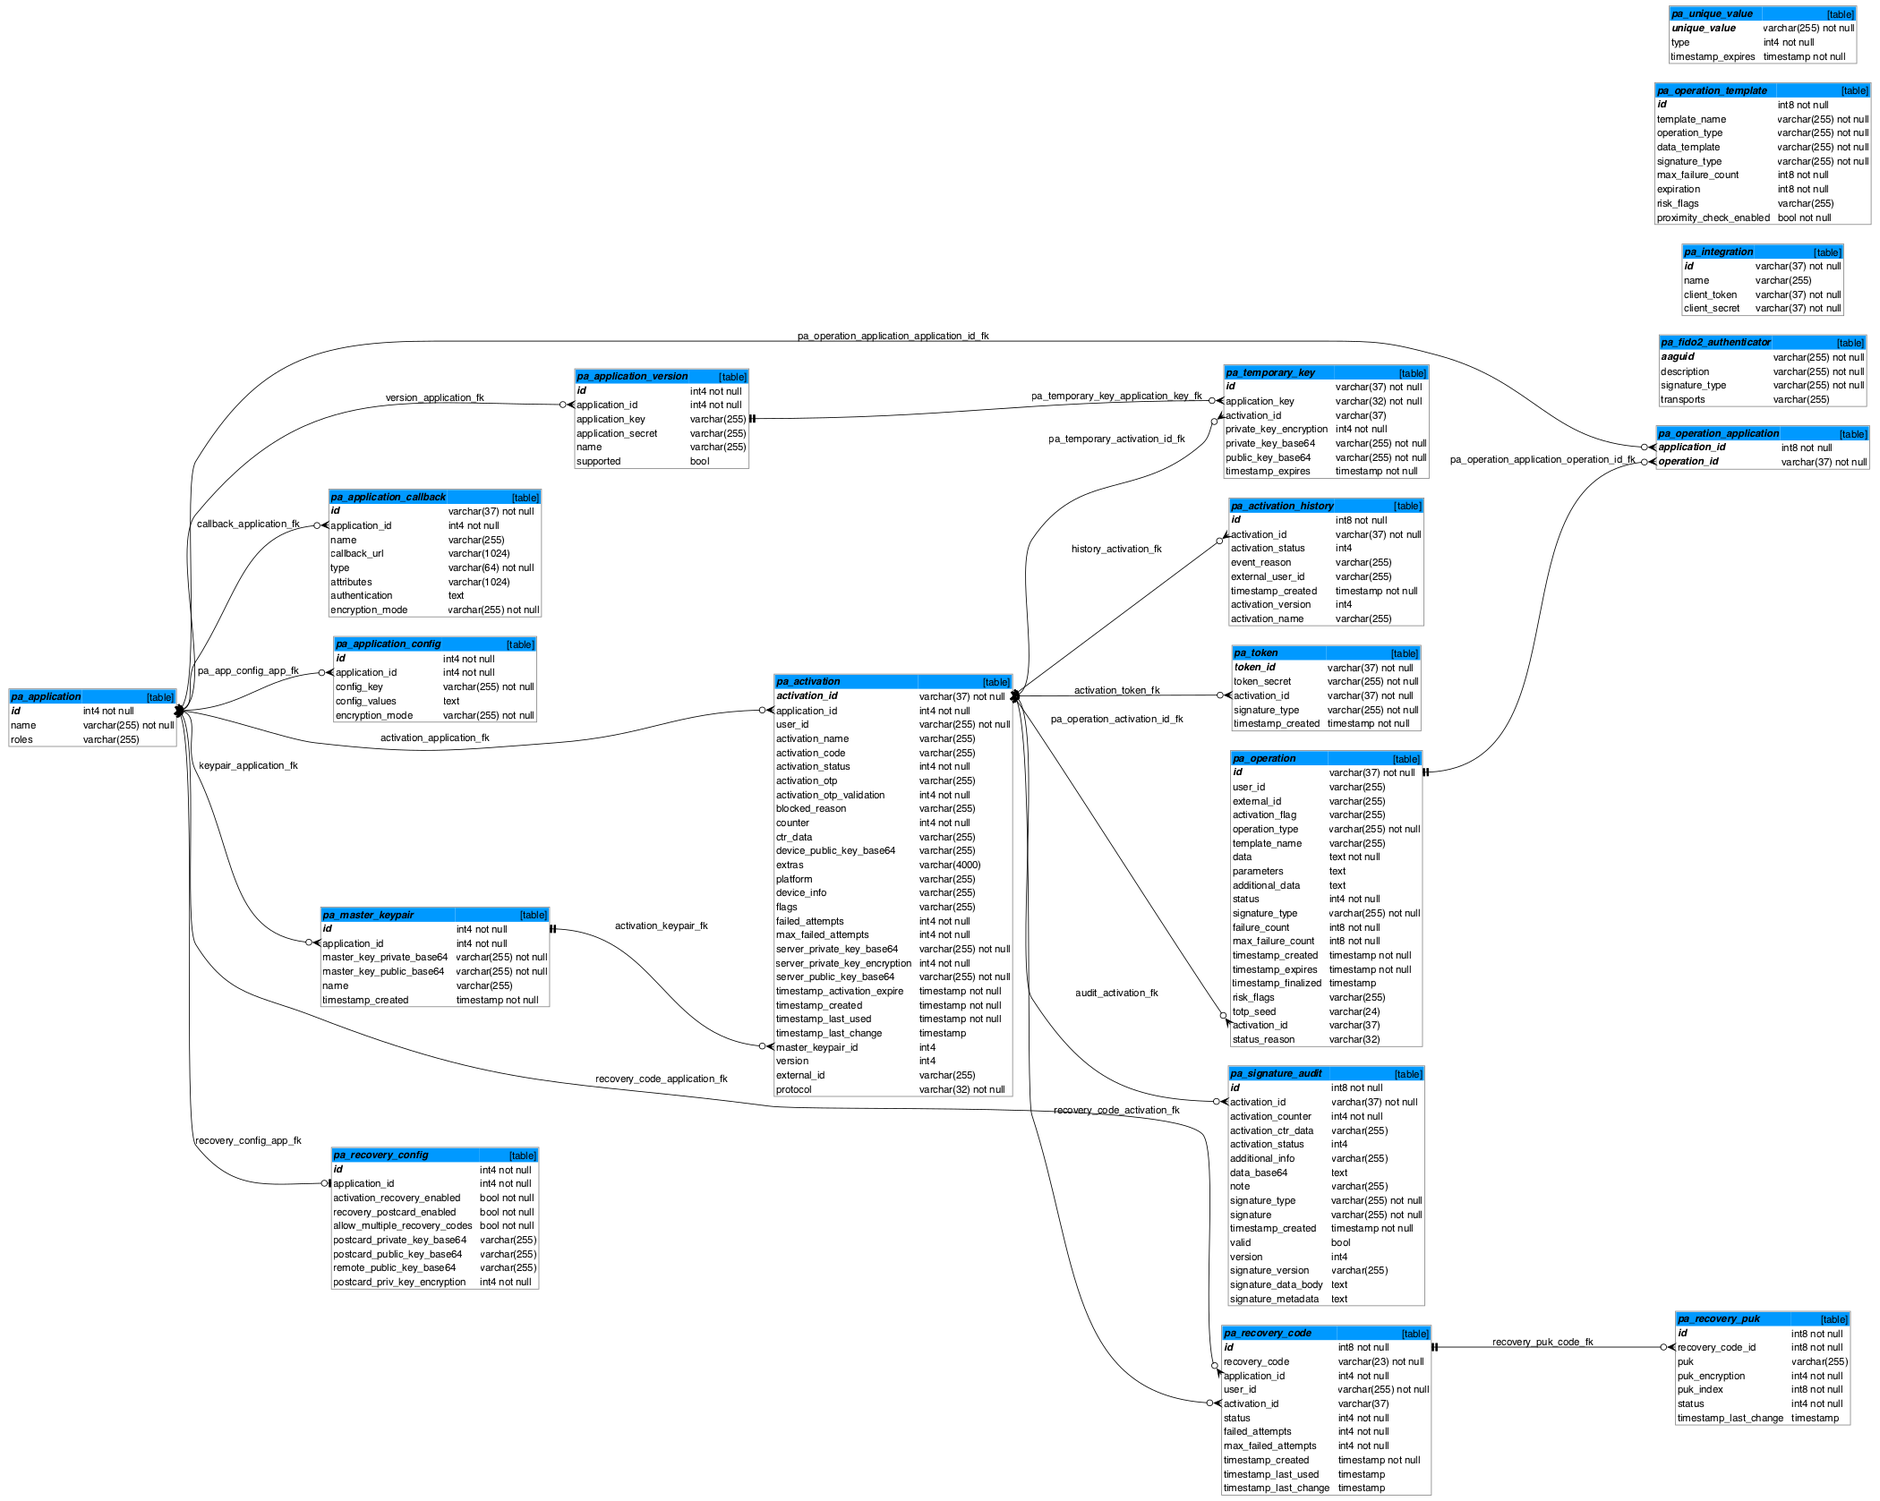
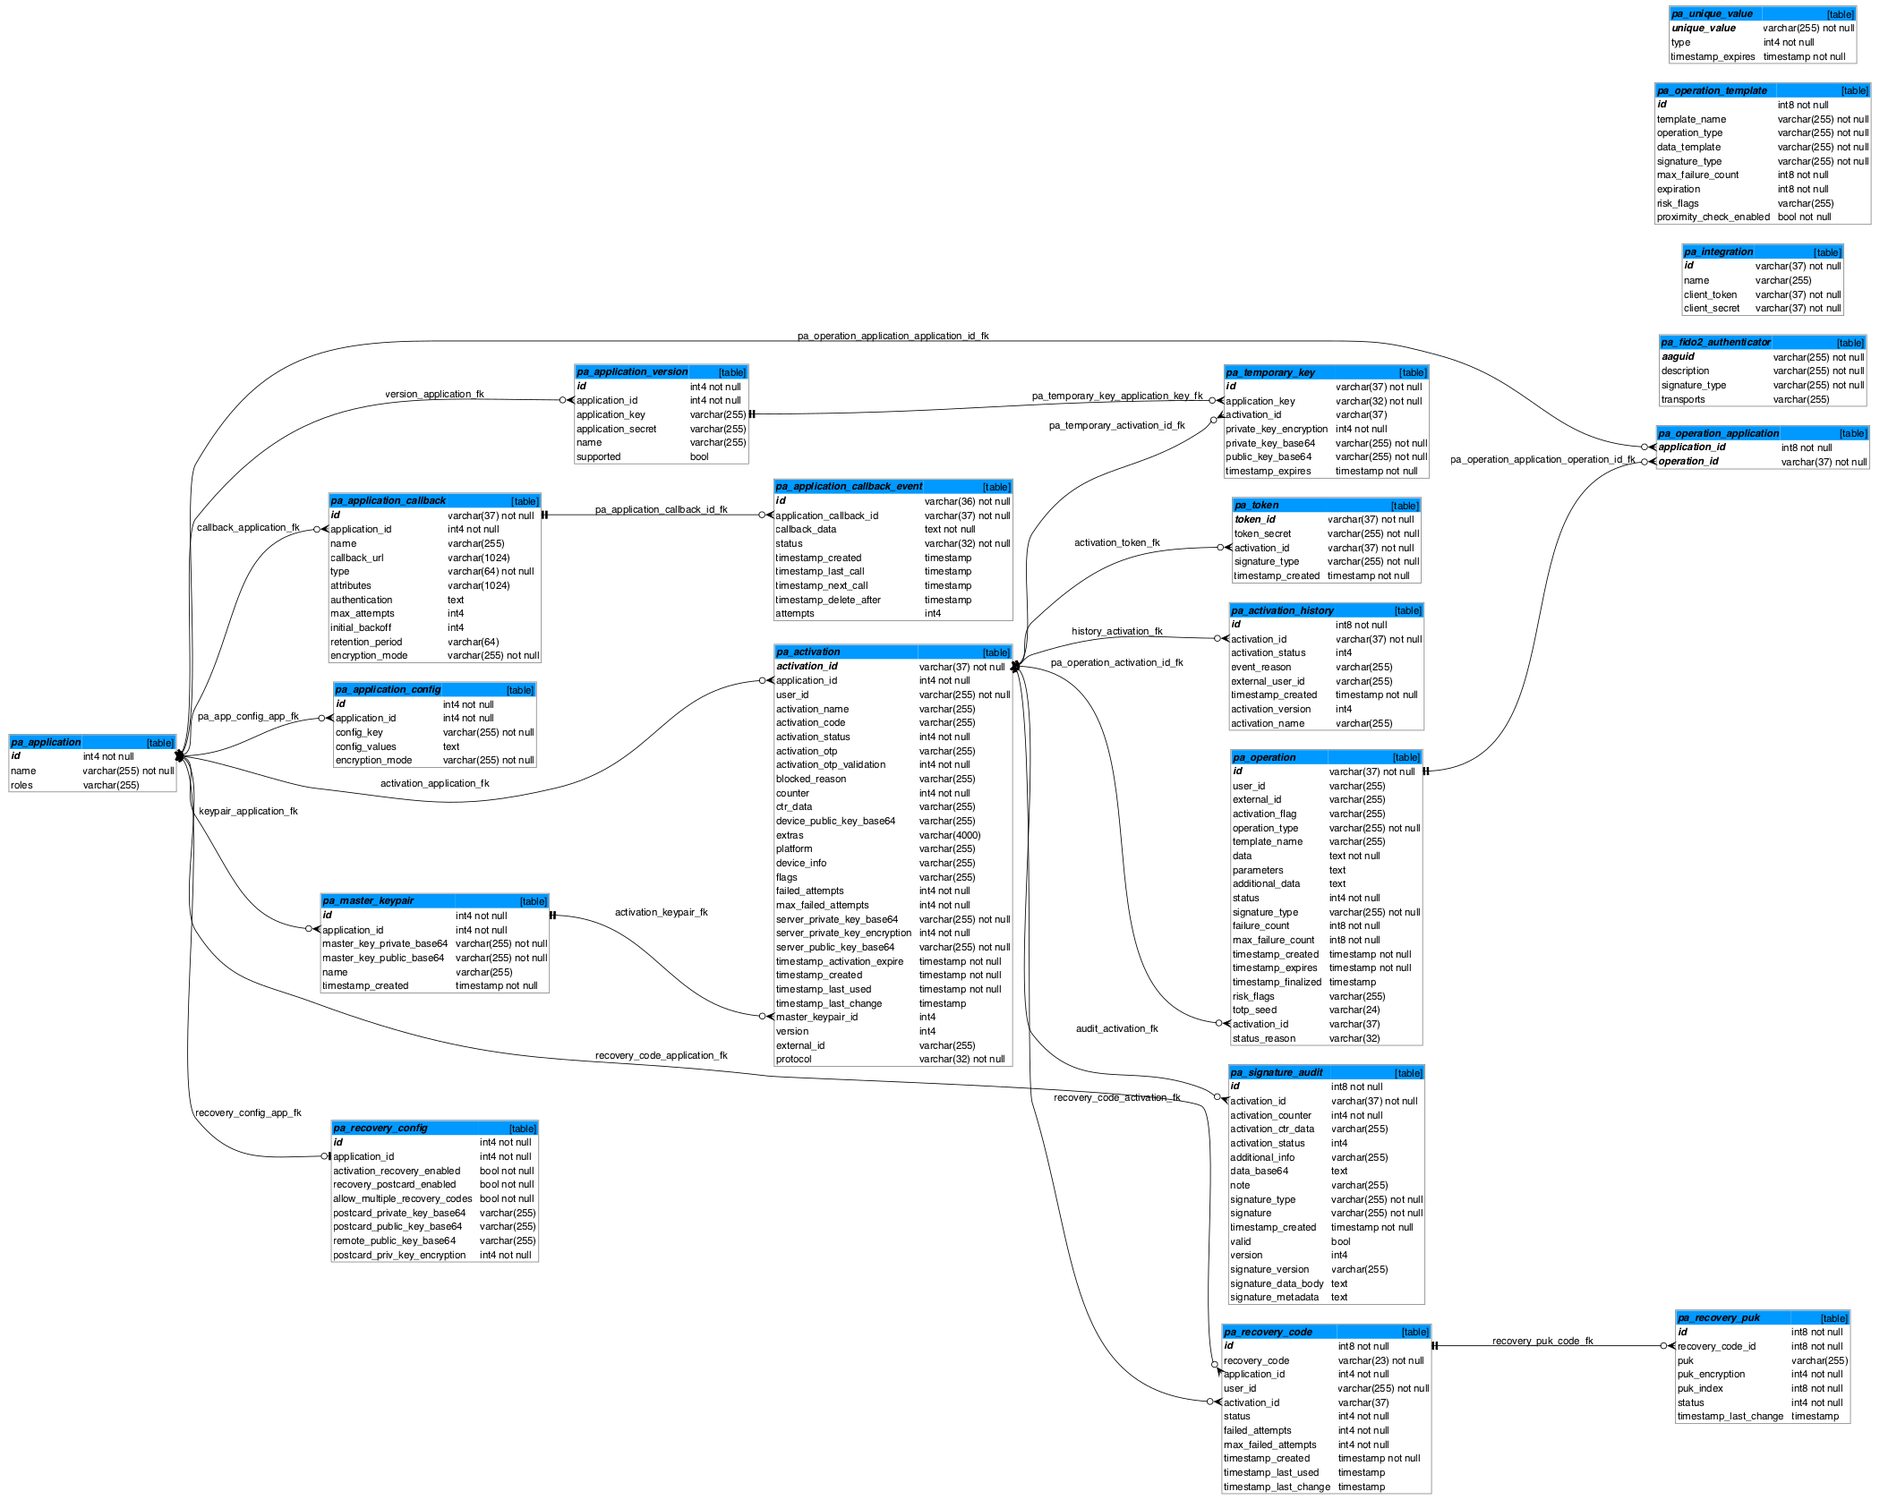
Improvements after resolving conficts

diff --git a/powerauth-java-server/src/main/java/io/getlime/security/powerauth/app/server/service/callbacks/CallbackUrlRestClientManager.java b/powerauth-java-server/src/main/java/io/getlime/security/powerauth/app/server/service/callbacks/CallbackUrlRestClientManager.java
@@ -63,12 +63,25 @@ public class CallbackUrlRestClientManager {
         }
     }
 
+    public String createRestClientIfAbsent(final CallbackUrlEntity callbackUrlEntity) throws RestClientException, GenericServiceException {
+        final String cacheKey = getRestClientCacheKey(callbackUrlEntity);
+        synchronized (restClientCacheLock) {
+            if (restClientCache.containsKey(cacheKey)) {
+                logger.debug("REST client already exists in cache, callback cache key: {}", cacheKey);
+            } else {
+                logger.debug("REST client does not exist in cache, initializing new REST client, callback cache key: {}", cacheKey);
+                createRestClientAndStoreInCache(callbackUrlEntity);
+            }
+            return cacheKey;
+        }
+    }
+
     /**
      * Get a key for the REST client cache from a callback URL entity.
      * @param callbackUrlEntity Callback URL entity.
      * @return Cache key.
      */
-    private String getRestClientCacheKey(final CallbackUrlEntity callbackUrlEntity) {
+    public String getRestClientCacheKey(final CallbackUrlEntity callbackUrlEntity) {
         return callbackUrlEntity.getId();
     }
 
@@ -78,11 +91,21 @@ public class CallbackUrlRestClientManager {
      * @return Rest client.
      */
     private RestClient createRestClientAndStoreInCache(final CallbackUrlEvent callbackUrlEvent) throws RestClientException, GenericServiceException {
-        final CallbackUrlEventEntity callbackUrlEventEntity = callbackUrlEventRepository.findById(callbackUrlEvent.callbackUrlEventEntityId())
-                .orElseThrow(() -> new IllegalStateException("Callback Url Event was not found in database during REST Client initialization: callbackUrlEventId=" + callbackUrlEvent.callbackUrlEventEntityId()));
+        final CallbackUrlEventEntity callbackUrlEventEntity = callbackUrlEventRepository.findById(callbackUrlEvent.entityId())
+                .orElseThrow(() -> new IllegalStateException("Callback Url Event was not found in database during REST Client initialization: callbackUrlEventId=" + callbackUrlEvent.entityId()));
 
-        final RestClient restClient = initializeRestClient(callbackUrlEventEntity.getCallbackUrlEntity());
-        restClientCache.put(callbackUrlEvent.restClientCacheKey(), restClient);
+        return createRestClientAndStoreInCache(callbackUrlEventEntity.getCallbackUrlEntity());
+    }
+
+    /**
+     * Create a new REST client and store it in cache for given callback URL entity.
+     * @param callbackUrlEntity Callback URL entity.
+     * @return Rest client.
+     */
+    public RestClient createRestClientAndStoreInCache(final CallbackUrlEntity callbackUrlEntity) throws RestClientException, GenericServiceException {
+        final String cacheKey = getRestClientCacheKey(callbackUrlEntity);
+        final RestClient restClient = initializeRestClient(callbackUrlEntity);
+        restClientCache.put(cacheKey, restClient);
         return restClient;
     }
 

diff --git a/powerauth-java-server/src/main/java/io/getlime/security/powerauth/app/server/service/callbacks/CallbackUrlAuthenticationCryptor.java b/powerauth-java-server/src/main/java/io/getlime/security/powerauth/app/server/service/callbacks/CallbackUrlAuthenticationCryptor.java
@@ -29,12 +29,25 @@ public final class CallbackUrlAuthenticationCryptor {
 
     private final CallbackAuthenticationPublicConverter authenticationPublicConverter = new CallbackAuthenticationPublicConverter();
 
+    /**
+     * Encrypt Callback URL authentication settings.
+     * @param source Callback URL authentication settings.
+     * @param applicationId ID of associated application.
+     * @return Encrypted Callback URL authentication settings.
+     * @throws GenericServiceException In case of an encryption error.
+     */
     public EncryptableString encrypt(final HttpAuthenticationPrivate source, final String applicationId) throws GenericServiceException {
         final CallbackUrlAuthentication callbackAuthentication = authenticationPublicConverter.fromNetworkObject(source);
         final String callbackAuthenticationString = callbackAuthenticationConverter.convertToDatabaseColumn(callbackAuthentication);
         return encryptionService.encrypt(callbackAuthenticationString, createEncryptionKeyProvider(applicationId));
     }
 
+    /**
+     * Decrypt Callback URL authentication settings.
+     * @param entity Callback URL Entity which authentication settings to decrypt.
+     * @return Callback URL authentication settings.
+     * @throws GenericServiceException In case of a decryption error.
+     */
     public CallbackUrlAuthentication decrypt(final CallbackUrlEntity entity) throws GenericServiceException {
         final String authentication = entity.getAuthentication();
         if (authentication == null) {
@@ -44,12 +57,18 @@ public final class CallbackUrlAuthenticationCryptor {
         return callbackAuthenticationConverter.convertToEntityAttribute(existingCallbackAuthenticationString);
     }
 
+    /**
+     * Decrypt Callback URL authentication settings and return structure with hidden secrets.
+     * @param entity Callback URL Entity which authentication settings to decrypt.
+     * @return Callback URL authentication settings with hidden secrets.
+     * @throws GenericServiceException In case of a decryption error.
+     */
     public HttpAuthenticationPublic decryptToPublic(final CallbackUrlEntity entity) throws GenericServiceException {
         final CallbackUrlAuthentication authentication = decrypt(entity);
         return authenticationPublicConverter.toPublic(authentication);
     }
 
-    public static Supplier<List<String>> createEncryptionKeyProvider(final String applicationId) {
+    private static Supplier<List<String>> createEncryptionKeyProvider(final String applicationId) {
         return () -> List.of(applicationId);
     }
 

diff --git a/powerauth-java-server/src/main/java/io/getlime/security/powerauth/app/server/service/callbacks/CallbackUrlEventService.java b/powerauth-java-server/src/main/java/io/getlime/security/powerauth/app/server/service/callbacks/CallbackUrlEventService.java
@@ -80,7 +80,7 @@ public class CallbackUrlEventService {
      */
     @Transactional(propagation = Propagation.REQUIRES_NEW)
     public void moveCallbackUrlEventToPending(final CallbackUrlEvent callbackUrlEvent) {
-        callbackUrlEventRepository.updateEventToPendingState(callbackUrlEvent.callbackUrlEventEntityId());
+        callbackUrlEventRepository.updateEventToPendingState(callbackUrlEvent.entityId());
     }
 
     /**
@@ -160,7 +160,8 @@ public class CallbackUrlEventService {
         callbackUrlEventEntity.setTimestampRerunAfter(shouldBeSentAtMostOnce(callbackUrlEntity) ? null : timestampNow.plus(forceRerunPeriod));
         final CallbackUrlEventEntity savedEventEntity = callbackUrlEventRepository.save(callbackUrlEventEntity);
 
-        final CallbackUrlEvent callbackUrlEvent = CallbackUrlConvertor.convert(savedEventEntity);
+        final String restClientCacheKey = callbackUrlRestClientManager.getRestClientCacheKey(callbackUrlEntity);
+        final CallbackUrlEvent callbackUrlEvent = CallbackUrlConvertor.convert(savedEventEntity, restClientCacheKey);
         TransactionUtils.executeAfterTransactionCommits(
                 () -> postCallback(callbackUrlEvent)
         );
@@ -172,7 +173,7 @@ public class CallbackUrlEventService {
      */
     private void postCallback(final CallbackUrlEvent callbackUrlEvent) {
         if (callbackUrlEvent.status() != CallbackUrlEventStatus.PROCESSING) {
-            logger.warn("Callback URL Event to post is not in PROCESSING state: callbackUrlEventId={}", callbackUrlEvent.callbackUrlEventEntityId());
+            logger.warn("Callback URL Event to post is not in PROCESSING state: callbackUrlEventId={}", callbackUrlEvent.entityId());
             return;
         }
 
@@ -193,7 +194,7 @@ public class CallbackUrlEventService {
                     onSuccess,
                     onError);
 
-            logger.debug("CallbackUrlEvent {} was dispatched.", callbackUrlEvent.callbackUrlEventEntityId());
+            logger.debug("CallbackUrlEvent {} was dispatched.", callbackUrlEvent.entityId());
         } catch (RestClientException | GenericServiceException e) {
             callbackUrlEventResponseHandler.handleFailure(callbackUrlEvent, e);
         }

diff --git a/powerauth-java-server/src/main/java/io/getlime/security/powerauth/app/server/service/callbacks/CallbackUrlEventResponseHandler.java b/powerauth-java-server/src/main/java/io/getlime/security/powerauth/app/server/service/callbacks/CallbackUrlEventResponseHandler.java
@@ -54,8 +54,8 @@ public class CallbackUrlEventResponseHandler {
      */
     @Transactional(propagation = Propagation.REQUIRES_NEW)
     public void handleSuccess(final CallbackUrlEvent callbackUrlEvent) {
-        final CallbackUrlEventEntity callbackUrlEventEntity = callbackUrlEventRepository.findById(callbackUrlEvent.callbackUrlEventEntityId())
-                        .orElseThrow(() -> new IllegalStateException("Callback Url Event was not found in database during its success handling: callbackUrlEventId=" + callbackUrlEvent.callbackUrlEventEntityId()));
+        final CallbackUrlEventEntity callbackUrlEventEntity = callbackUrlEventRepository.findById(callbackUrlEvent.entityId())
+                        .orElseThrow(() -> new IllegalStateException("Callback Url Event was not found in database during its success handling: callbackUrlEventId=" + callbackUrlEvent.entityId()));
 
         logger.info("Callback succeeded, URL={}, callbackEventId={}", callbackUrlEventEntity.getCallbackUrlEntity().getCallbackUrl(), callbackUrlEventEntity.getId());
 
@@ -75,8 +75,8 @@ public class CallbackUrlEventResponseHandler {
      */
     @Transactional(propagation = Propagation.REQUIRES_NEW)
     public void handleFailure(final CallbackUrlEvent callbackUrlEvent, final Throwable error) {
-        final CallbackUrlEventEntity callbackUrlEventEntity = callbackUrlEventRepository.findById(callbackUrlEvent.callbackUrlEventEntityId())
-                .orElseThrow(() -> new IllegalStateException("Callback Url Event was not found in database during its failure handling: callbackUrlEventId=" + callbackUrlEvent.callbackUrlEventEntityId()));
+        final CallbackUrlEventEntity callbackUrlEventEntity = callbackUrlEventRepository.findById(callbackUrlEvent.entityId())
+                .orElseThrow(() -> new IllegalStateException("Callback Url Event was not found in database during its failure handling: callbackUrlEventId=" + callbackUrlEvent.entityId()));
 
         logger.info("Callback failed, URL={}, callbackEventId={}, error={}", callbackUrlEventEntity.getCallbackUrlEntity().getCallbackUrl(), callbackUrlEventEntity.getId(), error.getMessage());
 

diff --git a/powerauth-java-server/src/main/java/io/getlime/security/powerauth/app/server/service/behavior/tasks/CallbackUrlBehavior.java b/powerauth-java-server/src/main/java/io/getlime/security/powerauth/app/server/service/behavior/tasks/CallbackUrlBehavior.java
@@ -449,8 +449,9 @@ public class CallbackUrlBehavior {
             return;
         }
 
+        final String restClientCacheKey = callbackUrlRestClientManager.createRestClientIfAbsent(callbackUrlEntity);
         final CallbackUrlEventEntity callbackUrlEventEntity = callbackUrlEventService.createAndSaveCallbackUrlEventEntity(callbackUrlEntity, callbackData);
-        final CallbackUrlEvent callbackUrlEvent = CallbackUrlConvertor.convert(callbackUrlEventEntity);
+        final CallbackUrlEvent callbackUrlEvent = CallbackUrlConvertor.convert(callbackUrlEventEntity, restClientCacheKey);
         TransactionUtils.executeAfterTransactionCommits(
                 () -> enqueue(callbackUrlEvent)
         );
@@ -465,7 +466,7 @@ public class CallbackUrlBehavior {
         try {
             callbackUrlEventQueueService.submitToExecutor(callbackUrlEvent);
         } catch (RejectedExecutionException e) {
-            logger.debug("CallbackUrlEventEntity was rejected by the executor: callbackUrlEntityId={}", callbackUrlEvent.callbackUrlEventEntityId());
+            logger.debug("CallbackUrlEventEntity was rejected by the executor: callbackUrlEntityId={}", callbackUrlEvent.entityId());
             callbackUrlEventQueueService.enqueueToDatabase(callbackUrlEvent);
         }
     }

diff --git a/powerauth-java-server/src/main/java/io/getlime/security/powerauth/app/server/service/callbacks/model/CallbackUrlConvertor.java b/powerauth-java-server/src/main/java/io/getlime/security/powerauth/app/server/service/callbacks/model/CallbackUrlConvertor.java
@@ -24,17 +24,18 @@ import lombok.NoArgsConstructor;
 
 /**
  * Convertor between data classes related to Callbacks URL.
+ *
  * @author Jan Pesek, jan.pesek@wultra.com
  */
 @NoArgsConstructor(access = AccessLevel.PRIVATE)
 public class CallbackUrlConvertor {
 
-    public static CallbackUrlEvent convert(final CallbackUrlEventEntity callbackUrlEventEntity) {
+    public static CallbackUrlEvent convert(final CallbackUrlEventEntity callbackUrlEventEntity, final String restClientCacheKey) {
         return CallbackUrlEvent.builder()
-                .callbackUrlEventEntityId(callbackUrlEventEntity.getId())
+                .entityId(callbackUrlEventEntity.getId())
                 .callbackData(callbackUrlEventEntity.getCallbackData())
                 .callbackUrl(callbackUrlEventEntity.getCallbackUrlEntity().getCallbackUrl())
-                .restClientCacheKey(callbackUrlEventEntity.getCallbackUrlEntity().getId())
+                .restClientCacheKey(restClientCacheKey)
                 .status(callbackUrlEventEntity.getStatus())
                 .idempotencyKey(callbackUrlEventEntity.getIdempotencyKey())
                 .build();

diff --git a/powerauth-java-server/src/main/java/io/getlime/security/powerauth/app/server/service/callbacks/model/CallbackUrlEvent.java b/powerauth-java-server/src/main/java/io/getlime/security/powerauth/app/server/service/callbacks/model/CallbackUrlEvent.java
@@ -29,7 +29,7 @@ import java.util.Map;
  */
 @Builder
 public record CallbackUrlEvent(
-        Long callbackUrlEventEntityId,
+        Long entityId,
         Map<String, Object> callbackData,
         String callbackUrl,
         String restClientCacheKey,

diff --git a/docs/PowerAuth-Server-1.9.0.md b/docs/PowerAuth-Server-1.9.0.md
@@ -45,12 +45,6 @@ The `pa_application_callback_event` table comes with following indices:
 - `pa_app_cb_event_status_idx` on `(status)`,
 - `pa_app_cb_event_ts_del_idx` on `(timestamp_delete_after)`.
 
-### New Configuration Properties for Callback Events Monitoring
-
-New configuration options has been added to modify the Callback URL Events monitoring and retry policy.
-See the [Callback URL Events Configuration section](./Configuration-Properties.md#callback-url-events-configuration)
-for further details.
-
 ### Add Columns to Configure Callback Retry Strategy
 
 New columns has been added to the `pa_application_callback` table. These columns provide additional configuration
@@ -83,7 +77,13 @@ The method `POST /rest/v3/signature/ecdsa/verify` now supports validation of ECD
 
 ## Other Changes
 
+### New Configuration Properties for Callback Events Monitoring
+
+New configuration options has been added to modify the Callback URL Events monitoring and retry policy.
+See the [Callback URL Events Configuration section](./Configuration-Properties.md#callback-url-events-configuration)
+for further details.
+
 ### Idempotency-Key of Callback URL Events
 
-Callback URL Events now include an `Idempotency-Key` in the HTTP request header. It is a unique key to recognize retries
-of the same request.
+Callback URL Events now include an `Idempotency-Key` in the HTTP request header. It is a unique UUIDv4 key to recognize
+retries of the same request.

diff --git a/docs/Configuration-Properties.md b/docs/Configuration-Properties.md
@@ -108,7 +108,8 @@ Imbalanced settings of the thread pool size and database connection pool size ca
 Callback events are periodically monitored to detect any stale callback events that might have become stuck during
 processing due to rare circumstances. When a currently processed callback event exceeds the defined `forceRerunPeriod`
 without completion, it is automatically scheduled to be rerun. By default, the force rerun period is calculated as the
-sum of the HTTP connection timeout, the HTTP response timeout, and an additional ten-second delay.
+sum of the HTTP connection timeout, the HTTP response timeout, and an additional ten-second delay. This does not apply
+to callback events with max attempts set to 1, such callback events are never scheduled to be rerun.
 
 | Property                                                            | Default | Note                                                                                                               |
 |---------------------------------------------------------------------|---------|--------------------------------------------------------------------------------------------------------------------|
